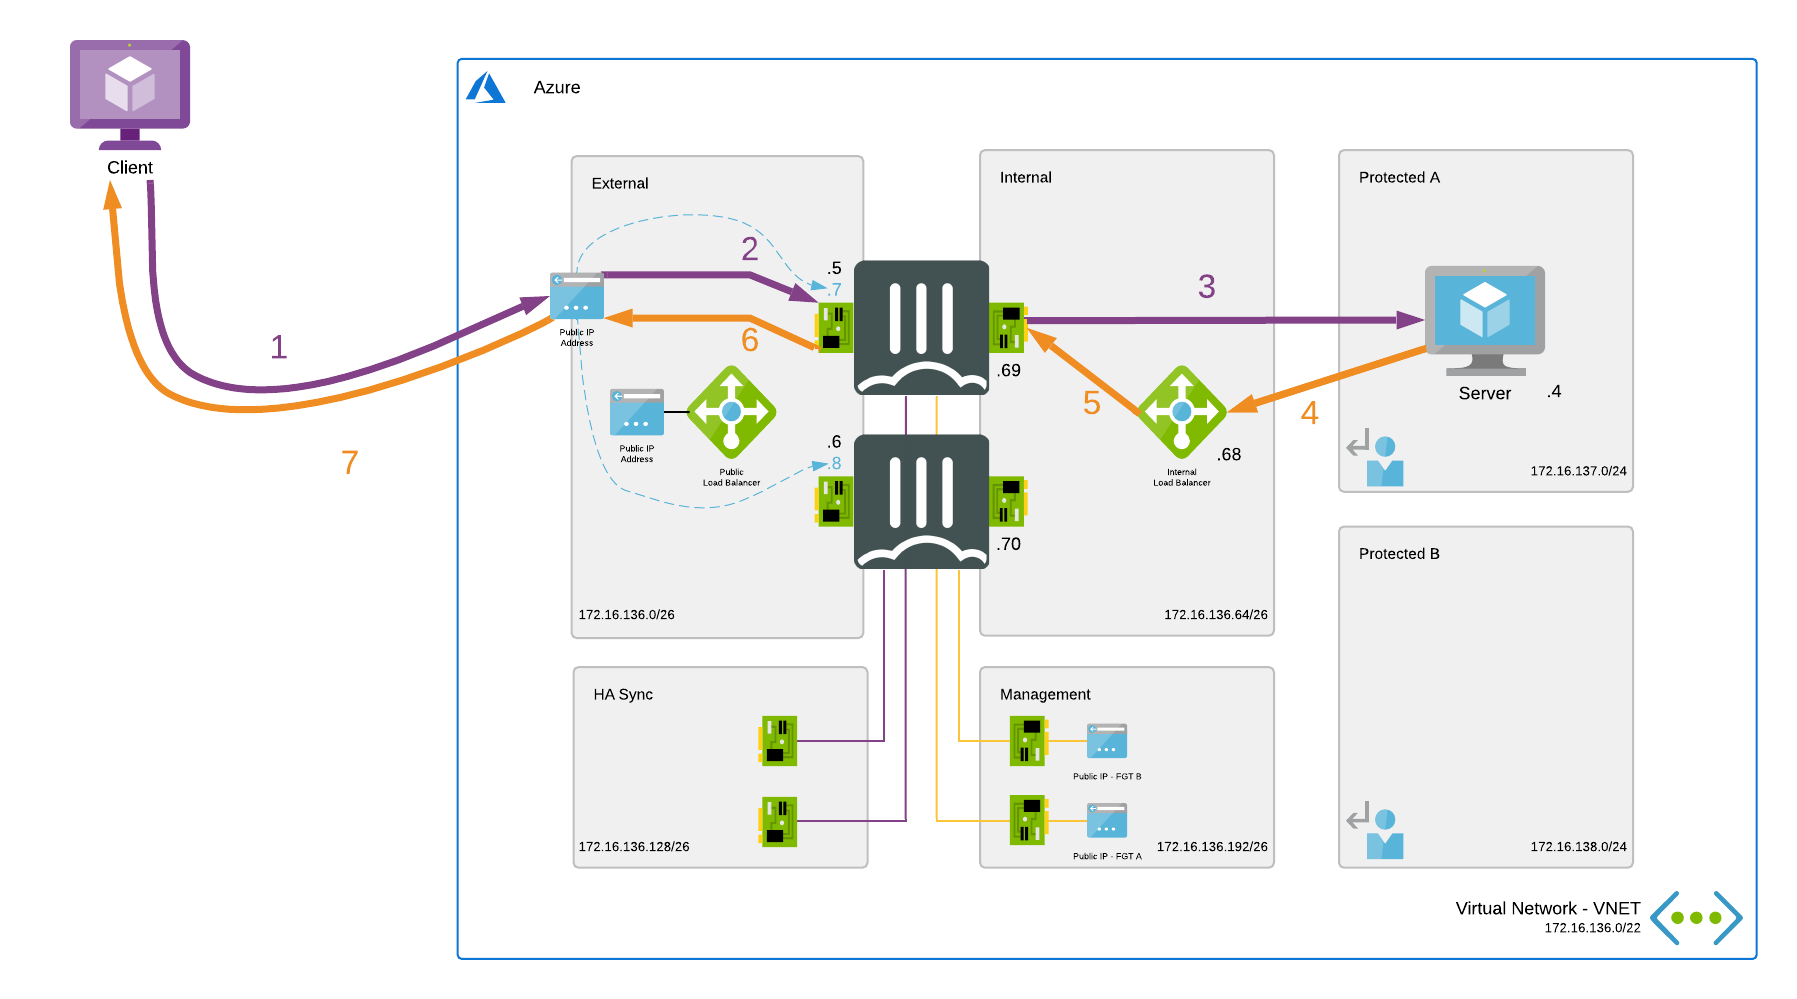
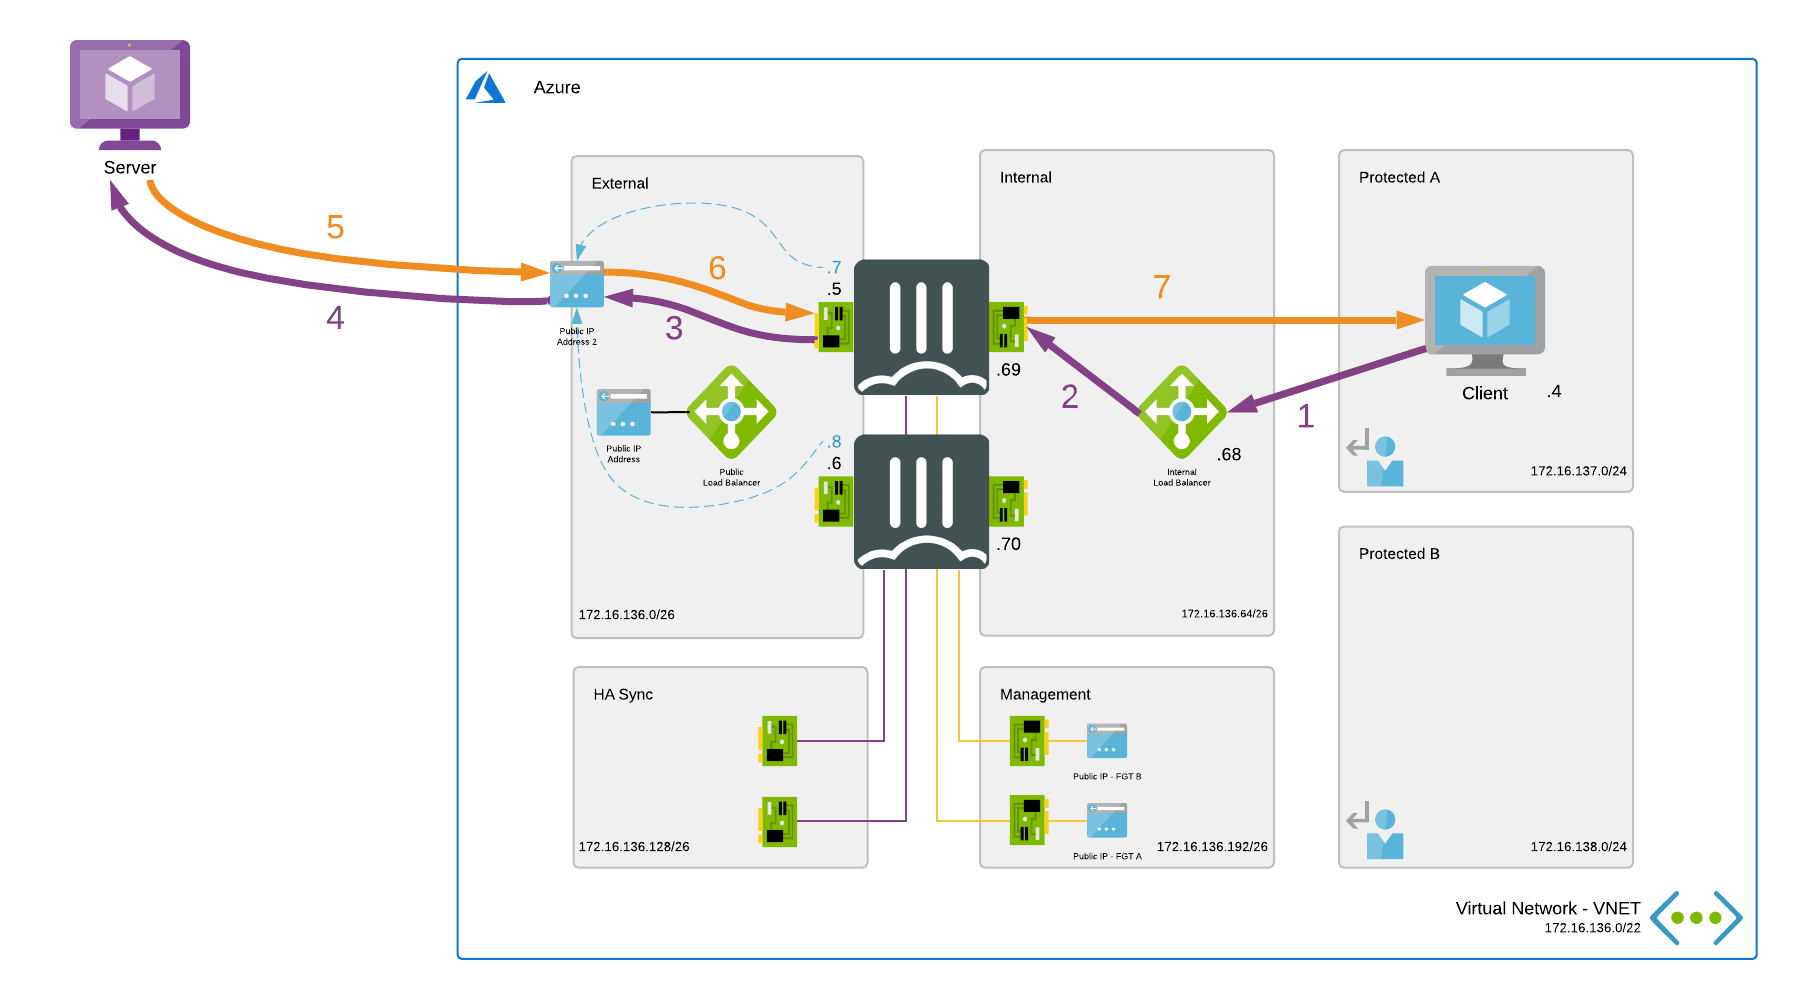
Fixed outbound connection doc. Thanks Piotr

diff --git a/FortiGate/Active-Passive-ELB-ILB/doc/config-outbound-nat-considerations.md b/FortiGate/Active-Passive-ELB-ILB/doc/config-outbound-nat-considerations.md
@@ -4,7 +4,7 @@
 
 The [general outbound connections page](config-outbound-connections.md) focussed on the default scenario with 1 or multiple public IPs that handle all outbound traffic. The Azure Load Balancer has a pool of IPs that can be used. In some deployments customers would like to have specific 1-to-1 NAT or NAT behind a separate public IPs for one service, server or user. These NAT scenario's are mostly requested for specific ACLs implemented at other side or validation of public IPs in case of sending email, ...
 
-The Azure Load Balancer is limited in available outbound rules direct traffic as we would like for 1-to-1 NAT or NAT of specific services. The outbound rules only applies to the primary IP configuration of a NIC (limitations can be found [here](https://docs.microsoft.com/en-us/azure/load-balancer/load-balancer-outbound-connections#limitations)). This prevents us to differentiate the traffic based on different outbound IPs on the Fortigate.
+The Azure Load Balancer is limited in available outbound rules direct traffic as we would like for 1-to-1 NAT or NAT of specific services. The outbound rules only applies to the primary IP configuration of a NIC (limitations can be found [here](https://docs.microsoft.com/en-us/azure/load-balancer/load-balancer-outbound-connections#limitations)). This prevents us to differentiate the traffic based on different outbound IPs on the FortiGate.
 
 To achieve this NAT one or more public IPs needs to be attached to the external NIC of the FortiGate. In this Active-Passive HA cluster is best to use the SDN connector to failover the public IP from the primary to the secondary in case of failure of the primary fortigate.
 
@@ -16,10 +16,10 @@ In the diagram the different steps to establish a session are layed out. This fl
 
 1. Connection from client to the public IP of server. Azure routes the traffic using UDR to the internal Load Balancer - s: 172.16.137.4 - d: a.b.c.d
 2. Azure Internal Load Balancer probes and send the packet to the active FGT - s: 172.16.137.4 - d: a.b.c.d
-3. FGT inspects the packet and when allowed sends the packet to the Azure default gateway - s: 172.16.136.7 (or 8) - d: a.b.c.d
+3. FGT inspects the packet and when allowed performs source NAT using IP pool settings to the secondary IP on the external interface - s: 172.16.136.7 (or 8) - d: a.b.c.d
 4. The Azure router will NAT the source IP of the packet to the attached public IP - s: w.x.y.z - d: a.b.c.d
 5. The server responds to the request - s: a.b.c.d d: w.x.y.z
-6. The Azure router NAT the destination address to the private IP of the IP configuration NIC attached to the public IP - s: a.b.c.d - d: 172.16.136.7 (or 8)
+6. The Azure router NAT the destination address to the private IP of the secondary IP configuration of the external NIC attached to the public IP - s: a.b.c.d - d: 172.16.136.7 (or 8)
 7. The active FGT accepts the return packet after inspection. It translates and routes the packet to the client - s: a.b.c.d - d: 172.16.137.4
 
 ## Configuration
